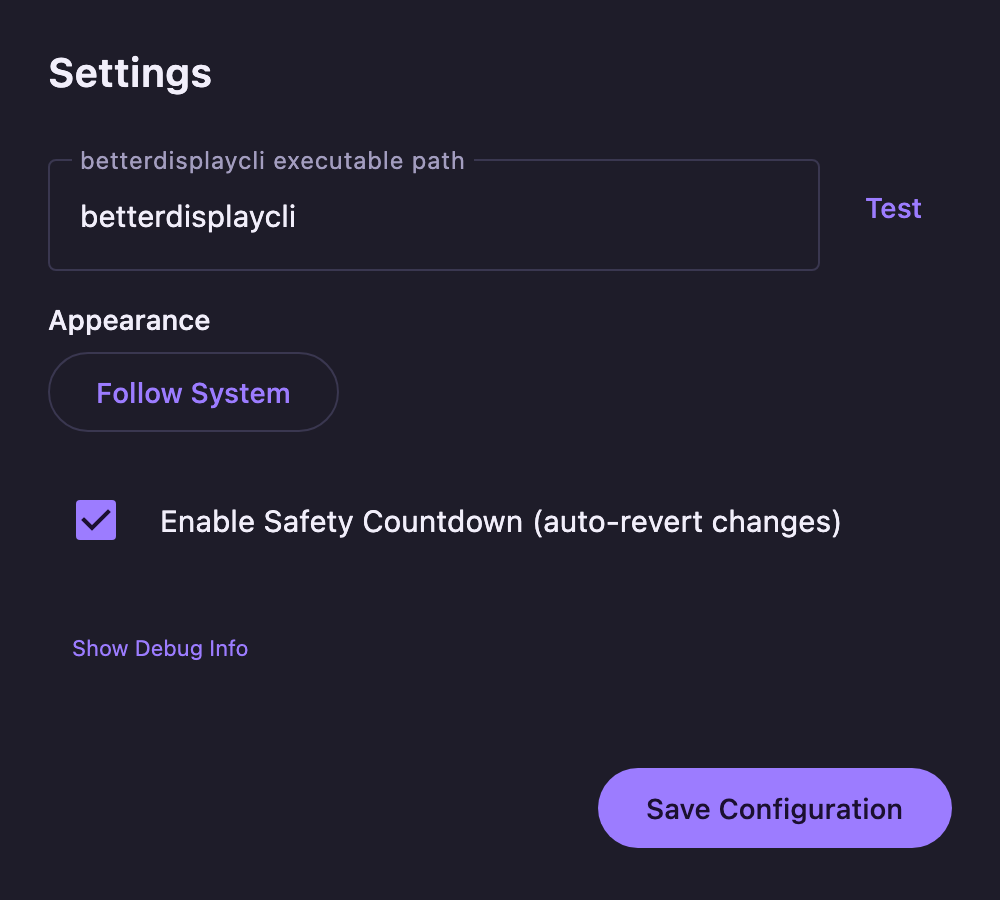
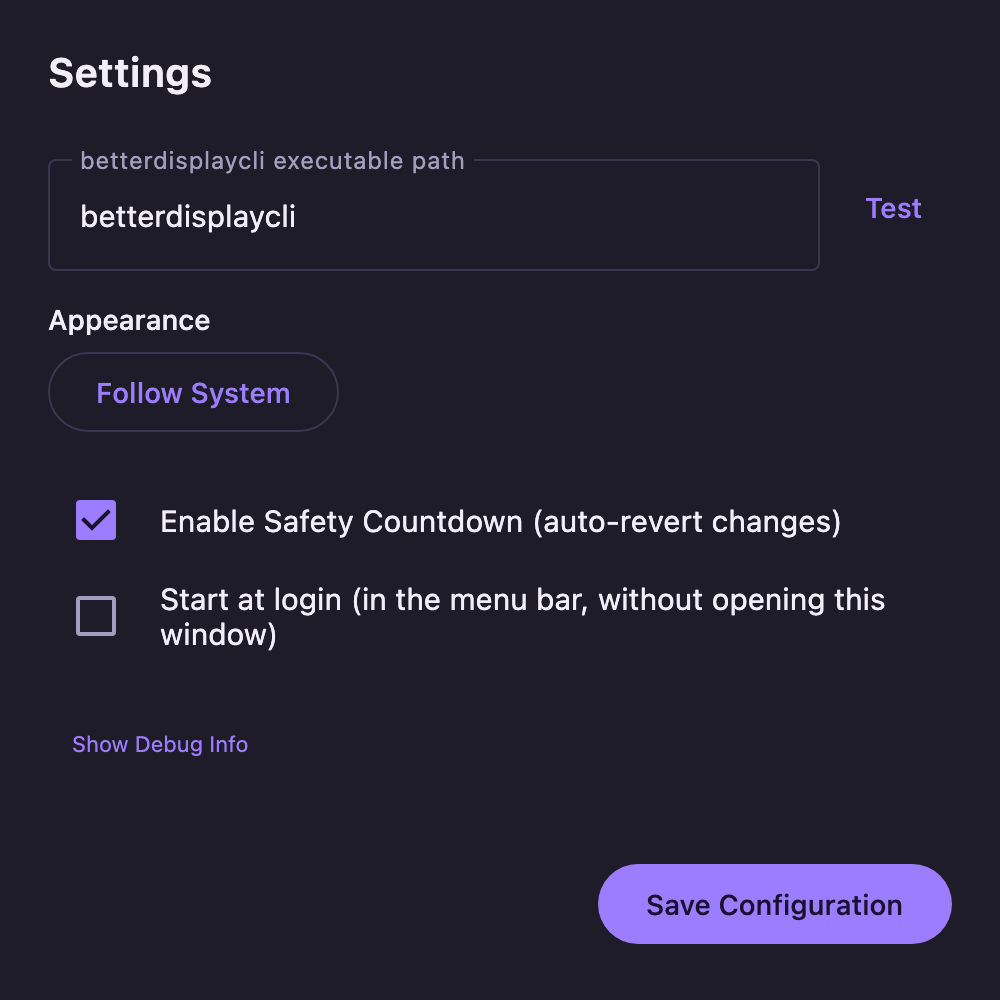
fix: Make the Settings window taller for the Start at login option
Measured: the macOS-only checkbox adds 48dp (content 448 -> 496dp), so the
window goes 520 -> 570dp to keep the same room below Save. The README
screenshot now shows the option, rendered against an empty temp
LaunchAgents folder so it doesn't depend on the generating machine.

diff --git a/src/main/kotlin/com/g95nc/controller/Main.kt b/src/main/kotlin/com/g95nc/controller/Main.kt
@@ -46,12 +46,13 @@ private fun capToScreenHeight(desired: Dp): Dp {
 private fun preferredDashboardHeight(): Dp = capToScreenHeight(700.dp)
 
 /** A height that comfortably fits the Settings content (path field(s) + appearance + safety
- * countdown checkbox + collapsed debug toggle + Save button) with a little breathing room below
+ * countdown checkbox + macOS's start-at-login checkbox + collapsed debug toggle + Save button -
+ * ~496dp of content on macOS, the tallest case) with a little breathing room below
  * the Save button - tuned by hand against the actual UI, not measured at runtime (an
  * intrinsic-measurement-based auto-size was tried and worked on the dev machine but not on
  * another, so this is a plain constant instead). Bump this if Settings grows a new field/section;
  * anything beyond it is still reachable via the window's scrollable content. */
-private fun preferredSettingsHeight(): Dp = capToScreenHeight(520.dp)
+private fun preferredSettingsHeight(): Dp = capToScreenHeight(570.dp)
 
 /** macOS draws each window's title bar chrome itself, entirely outside Compose - without this
  * hint it just follows the OS's own current appearance regardless of what [AppTheme] resolved to,

diff --git a/src/test/kotlin/com/g95nc/controller/ScreenshotGenerator.kt b/src/test/kotlin/com/g95nc/controller/ScreenshotGenerator.kt
@@ -84,10 +84,16 @@ class ScreenshotGenerator {
     fun dashboardLight() = capture("dashboard-light", 680, 780) { DashboardShot(ThemeMode.LIGHT) }
 
     @Test
-    fun settingsDark() = capture("settings-dark", 500, 450) {
+    fun settingsDark() = capture("settings-dark", 500, 500) {
+        // A fake .app path just so the macOS-only "Start at login" option shows, and an empty temp
+        // folder so it doesn't reflect whether the machine generating this has it enabled.
+        val loginItem = MacLoginItem(
+            launchAgentsDir = kotlin.io.path.createTempDirectory("g95nc-screenshot").toFile(),
+            appExecutable = "/Applications/G95NC Controller.app/Contents/MacOS/G95NC Controller"
+        )
         AppTheme(themeMode = ThemeMode.DARK) {
             Surface(modifier = Modifier.fillMaxSize()) {
-                SettingsModal(config = AppConfig(), onSave = {}, controller = FakeMonitorController(), platform = Platform.MAC)
+                SettingsModal(config = AppConfig(), onSave = {}, controller = FakeMonitorController(), platform = Platform.MAC, loginItem = loginItem)
             }
         }
     }
